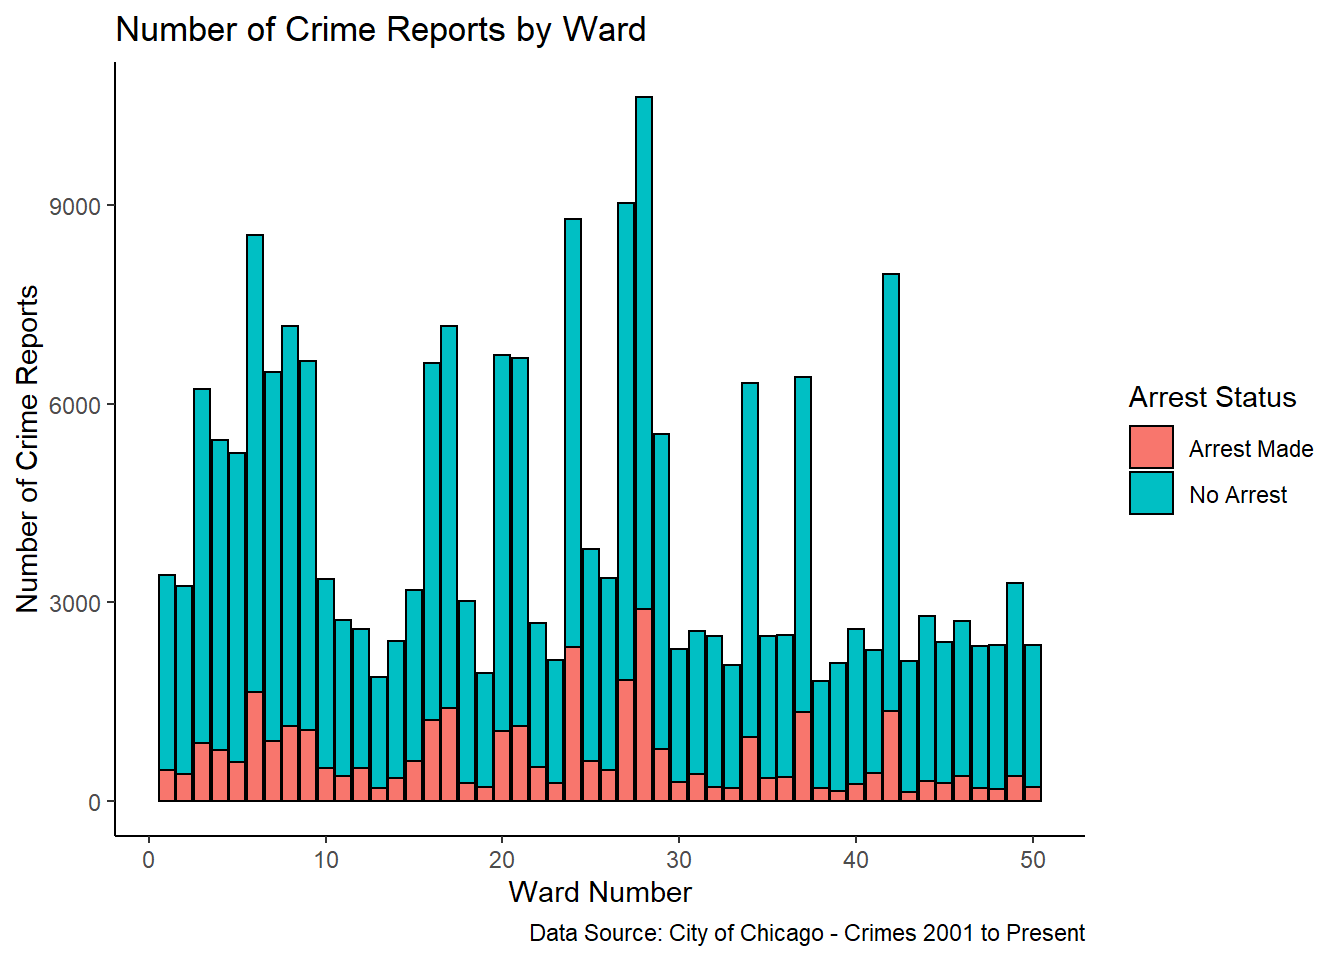
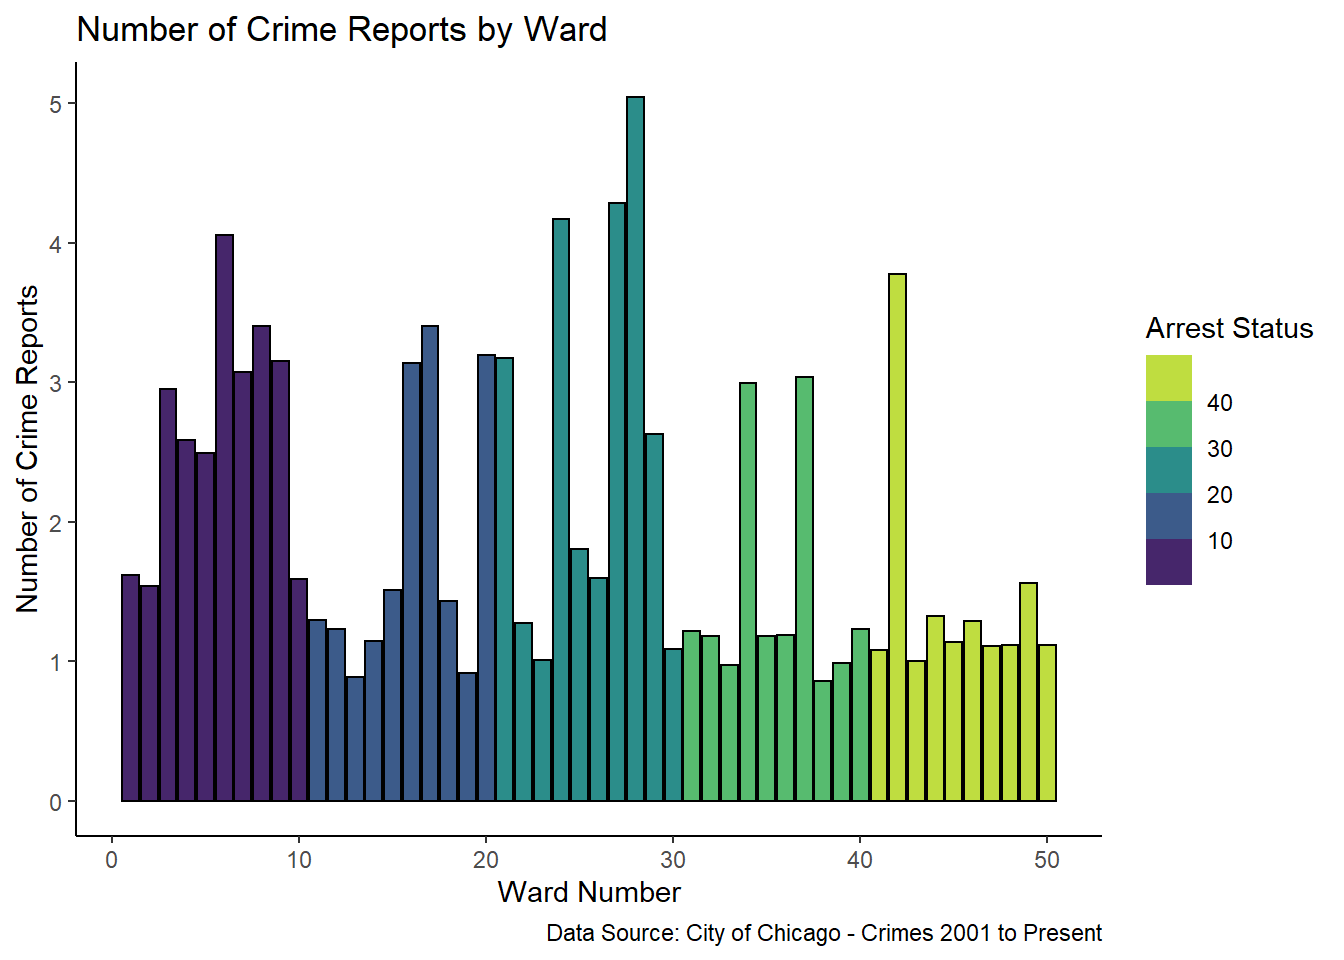
A5 arrest by ward and crime by ward probabilities.

diff --git a/content/post/2021-06-26-assignment-05-exploratory-data-analysis-v2/index.html b/content/post/2021-06-26-assignment-05-exploratory-data-analysis-v2/index.html
@@ -40,51 +40,13 @@ tags: []
 <p>Which crimes have the highest arrest rate?</p>
 <p><img src="{{< blogdown/postref >}}index_files/figure-html/unnamed-chunk-8-1.png" width="672" /></p>
 <p>Which are the best and worst wards to live in, based on crime rate?</p>
-<p><img src="{{< blogdown/postref >}}index_files/figure-html/unnamed-chunk-9-1.png" width="672" /></p>
-<pre><code>## &lt;ggproto object: Class ScaleDiscrete, Scale, gg&gt;
-##     aesthetics: fill
-##     axis_order: function
-##     break_info: function
-##     break_positions: function
-##     breaks: waiver
-##     call: call
-##     clone: function
-##     dimension: function
-##     drop: TRUE
-##     expand: waiver
-##     get_breaks: function
-##     get_breaks_minor: function
-##     get_labels: function
-##     get_limits: function
-##     guide: legend
-##     is_discrete: function
-##     is_empty: function
-##     labels: waiver
-##     limits: NULL
-##     make_sec_title: function
-##     make_title: function
-##     map: function
-##     map_df: function
-##     n.breaks.cache: NULL
-##     na.translate: TRUE
-##     na.value: NA
-##     name: waiver
-##     palette: function
-##     palette.cache: NULL
-##     position: left
-##     range: &lt;ggproto object: Class RangeDiscrete, Range, gg&gt;
-##         range: NULL
-##         reset: function
-##         train: function
-##         super:  &lt;ggproto object: Class RangeDiscrete, Range, gg&gt;
-##     rescale: function
-##     reset: function
-##     scale_name: brewer
-##     train: function
-##     train_df: function
-##     transform: function
-##     transform_df: function
-##     super:  &lt;ggproto object: Class ScaleDiscrete, Scale, gg&gt;</code></pre>
-<p><img src="{{< blogdown/postref >}}index_files/figure-html/unnamed-chunk-9-2.png" width="672" /></p>
+<pre><code>##   ward_rate_c ward
+## 1    1.618714    1
+## 2    1.540029    2
+## 3    2.950182    3
+## 4    2.581884    4
+## 5    2.488979    5
+## 6    4.055079    6</code></pre>
+<p><img src="{{< blogdown/postref >}}index_files/figure-html/unnamed-chunk-9-1.png" width="672" /><img src="{{< blogdown/postref >}}index_files/figure-html/unnamed-chunk-9-2.png" width="672" /></p>
 </div>
 </div>
